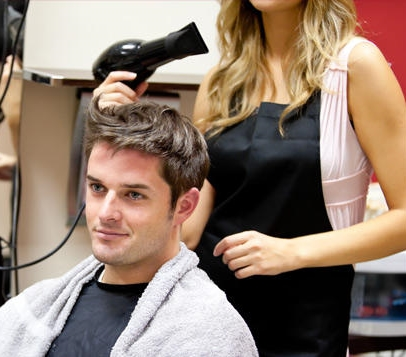
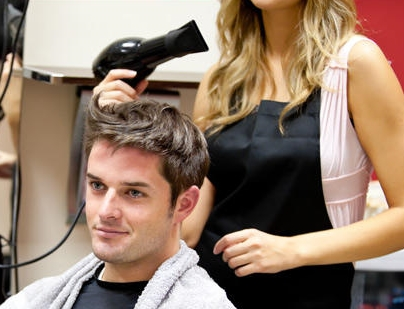
Workflow style edits

diff --git a/bisicut/workflow/index.html b/bisicut/workflow/index.html
@@ -12,6 +12,14 @@
     <script src="/bisicut/js/vue.js"></script>
     <script src="/bisicut/js/main.js"></script>
     <script src="/bisicut/js/carousel.min.js"></script>
+
+
+    <style>
+        xfigure.image.is-5by4 img {
+            width: 10em;
+            height: 8em;
+        }
+    </style>
 </head>
 
 <body>
@@ -24,7 +32,7 @@
                         <div class='carousel-item is-active'>
                             <a href="client/new.html">
                                 <figure class="image is-5by4">
-                                    <img src="img/invite.jpg">
+                                    <img src="img/invite2.jpg">
                                 </figure>
                                 <caption>Accept Invite</caption>
                             </a>
@@ -32,16 +40,18 @@
                         <div class='carousel-item'>
                             <a href="client/returning.html">
                                 <figure class="image is-5by4">
-                                    <img src="img/map.jpg">
+                                    <img src="img/map2.jpg">
                                 </figure>
                                 <caption>Returning Client</caption>
                             </a>
                         </div>
                         <div class='carousel-item'>
-                            <figure class="image is-8by6">
-                                <img src="img/salon.jpg">
-                            </figure>
-                            <caption>Returning Stylist</caption>
+                            <a href="stylist">
+                                <figure class="image is-5by4">
+                                    <img src="img/salon.jpg">
+                                </figure>
+                                <caption>Member - Stylist</caption>
+                            </a>
                         </div>
                         <div class='carousel-item'>
                             <figure class="image is-2by1">

diff --git a/bisicut/workflow/style.css b/bisicut/workflow/style.css
@@ -1,7 +1,16 @@
+@import url('https://fonts.googleapis.com/css?family=Oswald:400,700');
+
 html,
 body {
     margin: 0;
     height: 100%;
+    background: black;
+}
+
+h1 {
+    text-align: center;
+    font-family: 'Oswald', sans-serif;
+    color: white;
 }
 
 .workflow {
@@ -11,23 +20,23 @@ body {
 #stage {
     position: relative;
     width: 100%;
-    height: 100%;
+    height: 200%;
     color: white;
     font-family: Arial;
     text-align: center;
-    background: white;
+    background: black;
 }
 
 .terminator {
-    fill: lightblue;
+    fill: grey;
 }
 
 .process {
-    fill: lightgreen;
+    fill: grey;
 }
 
 .decision {
-    fill: orange;
+    fill: red;
 }
 
 .caption {
@@ -39,15 +48,15 @@ body {
 .label {
     text-anchor: middle;
     alignment-baseline: central;
-    fill: gray;
+    fill: lightgray;
 }
 
 .connector {
     fill: none;
-    stroke: gray;
+    stroke: lightgray;
     stroke-width: 2px;
 }
 
 .arrow {
-    fill: gray;
+    fill: lightgray;
 }

diff --git a/bisicut/workflow/client/new.html b/bisicut/workflow/client/new.html
@@ -17,7 +17,7 @@
         <div id="background" class="portrait"></div>
         <header>
             <div class="name">
-                <h1>New Client</h1>
+                <h1>Accept Invite</h1>
             </div>
         </header>
         <article>
